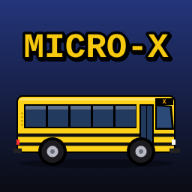
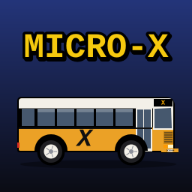
Icono basado en foto real: micro naranja con techo blanco, llantas blancas y recorrido X
Claude-Session: https://claude.ai/code/session_01RH5MfsMRBkBpGjXNB4ATJR

Changed region(s): [[0.0625, 0.4688, 0.9375, 0.8438]]

diff --git a/sw.js b/sw.js
@@ -1,5 +1,5 @@
 /* Service worker de Micro-X: deja el juego disponible sin conexión. */
-const CACHE = 'microx-v3';   // súbelo (v2, v3…) cuando publiques una versión nueva
+const CACHE = 'microx-v4';   // súbelo (v2, v3…) cuando publiques una versión nueva
 const FILES = ['./', './index.html', './manifest.webmanifest',
   './icons/icon-192.png', './icons/icon-512.png', './icons/icon-maskable-512.png', './icons/apple-touch-icon.png'];
 
